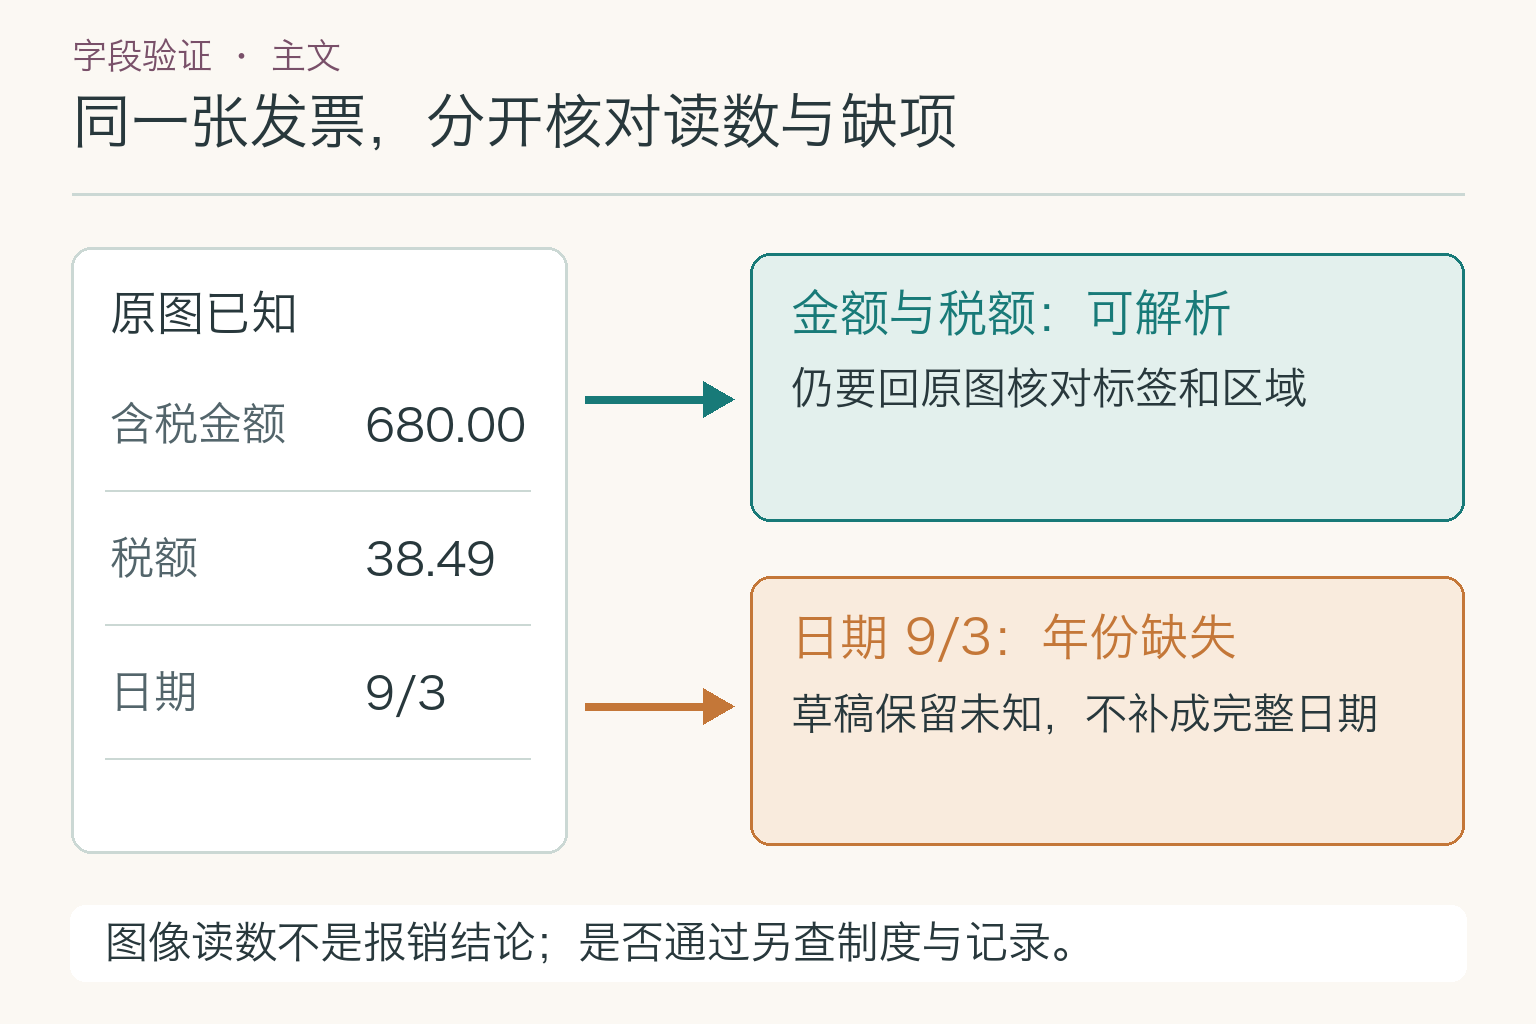
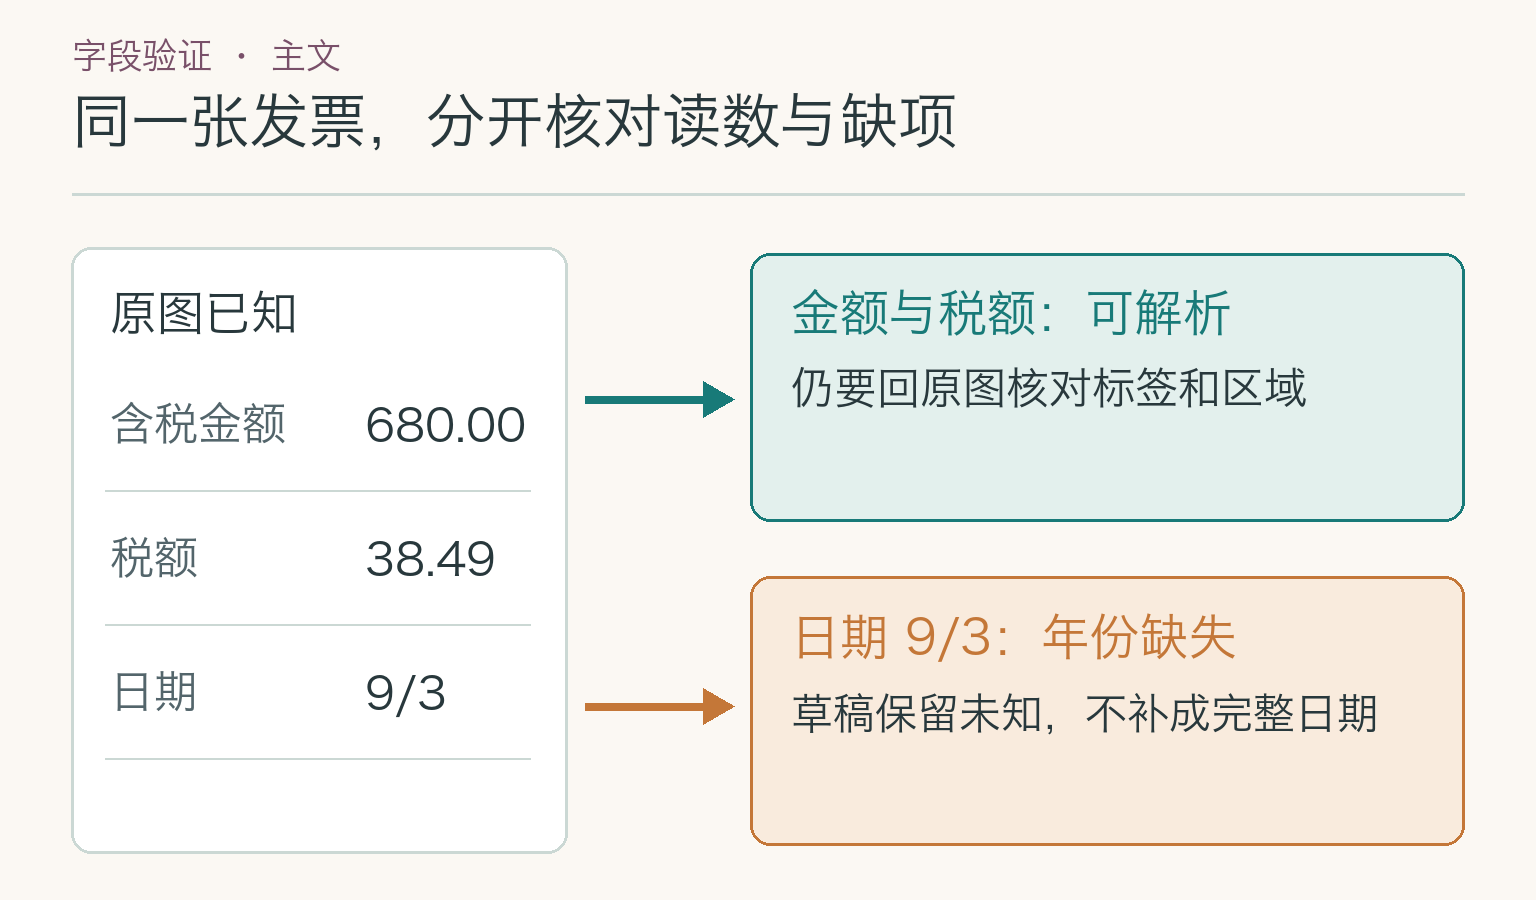
Remove detached disclaimers from multimodal figures

diff --git a/scripts/render-multimodal-mobile-figures.py b/scripts/render-multimodal-mobile-figures.py
@@ -46,18 +46,11 @@ def arrow(d, y1, y2, label=None, x=500, fill=ORANGE):
         text(d, x+33, (y1+y2)//2, label, 35, MUTED, "lm")
 
 
-def ribbon(d, y, lines, fill=ORANGE_BG):
-    h = 76 + 56*(len(lines)-1)
-    d.rounded_rectangle((70, y, 930, y+h), radius=20, fill=fill)
-    for i, line in enumerate(lines):
-        text(d, 102, y+19+i*55, line, 39, INK)
-
-
-def save(im, name):
+def save(im, name, height):
     # The outer margin is intentionally bare: no decorative left stripe.
     if im.crop((0, 0, 40, H)).getpixel((0, H//2)) != Image.new("RGB", (1, 1), BG).getpixel((0, 0)):
         raise ValueError(f"Unexpected mark at left edge: {name}")
-    im.save(ASSETS / name, optimize=True)
+    im.crop((0, 0, W, height)).save(ASSETS / name, optimize=True)
 
 
 def h_arrow(d, x1, y, x2, fill=ORANGE):
@@ -107,8 +100,7 @@ def field_trace():
         text(d, 688, y+135, status, 38, ORANGE if region == "C" else TEAL)
         h_arrow(d, 332, y+109, 370)
         h_arrow(d, 607, y+109, 650)
-    ribbon(d, 1281, ("A / B / C 仅为示意区域；", "每个草稿字段都要能回溯。"), TEAL_BG)
-    save(im, "multimodal-field-trace.png")
+    save(im, "multimodal-field-trace.png", 1245)
 
 
 def alignment():
@@ -136,8 +128,7 @@ def alignment():
     d.line((740, 1007, 740, 1080), fill=TEAL, width=6)
     box(d, (185, 1090, 815, 1220), PLUM_BG, PLUM)
     text(d, 256, 1132, "连接层只能映射已有特征", 41, PLUM)
-    ribbon(d, 1281, ("丢失的小字不能在连接层补回。",), "white")
-    save(im, "multimodal-alignment.png")
+    save(im, "multimodal-alignment.png", 1285)
 
 
 def ocr_vlm():
@@ -158,8 +149,7 @@ def ocr_vlm():
     text(d, 557, 828, "含税金额 ← 680.00", 34)
     text(d, 557, 905, "税额 ← 38.49", 34)
     text(d, 557, 982, "日期 ← 9/3", 34)
-    ribbon(d, 1178, ("最终按原图标签、位置复核；", "两路一致也不能补出年份。"), ORANGE_BG)
-    save(im, "multimodal-ocr-vlm.png")
+    save(im, "multimodal-ocr-vlm.png", 1165)
 
 
 def diagnosis():
@@ -179,7 +169,7 @@ def diagnosis():
         h_arrow(d, 544, y+140, 606, accent)
         for i, action in enumerate(actions):
             text(d, 652, y+98+i*51, action, 36)
-    save(im, "multimodal-document-diagnosis.png")
+    save(im, "multimodal-document-diagnosis.png", 1340)
 
 
 def evaluation():
@@ -200,8 +190,7 @@ def evaluation():
         text(d, 204, y+105, sample, 35)
         h_arrow(d, 583, y+109, 672, accent)
         text(d, 704, y+79, metric, 37, accent)
-    ribbon(d, 1280, ("还要分别核对原图区域与标签；", "不拿字符正确率代替字段正确率。"), "white")
-    save(im, "multimodal-evaluation.png")
+    save(im, "multimodal-evaluation.png", 1285)
 
 
 if __name__ == "__main__":

diff --git a/scripts/render-multimodal-main-landscape.py b/scripts/render-multimodal-main-landscape.py
@@ -14,7 +14,7 @@ FONT = next(str(p) for p in (
     Path("/System/Library/Fonts/STHeiti Medium.ttc"),
     Path("/usr/share/fonts/opentype/noto/NotoSansCJK-Regular.ttc"),
 ) if p.exists())
-W, H = 1536, 1024
+W, H = 1536, 900
 BG, INK, MUTED = "#FBF8F3", "#28383C", "#53656B"
 TEAL, TEAL_BG = "#187A78", "#E3F0ED"
 PLUM, PLUM_BG = "#795069", "#F2E9EF"
@@ -48,11 +48,6 @@ def base(kicker, title):
     return image, draw
 
 
-def footer(draw, message):
-    box(draw, (70, 905, 1466, 981), "white", "white", 15)
-    text(draw, 105, 920, message, 43)
-
-
 def save(image, name):
     image.save(ASSETS / name, optimize=True)
 
@@ -83,7 +78,6 @@ def encoding():
         text(draw, 1168, y+43, feature, 47)
         arrow(draw, 401, y+77, 545, accent)
         arrow(draw, 981, y+77, 1118, accent)
-    footer(draw, "本例只走图片与文字两路；是否支持音频取决于具体模型。")
     save(image, "multimodal-encoding.png")
 
 
@@ -108,7 +102,6 @@ def principle():
     box(draw, (547, 657, 1118, 794), "white", LINE)
     text(draw, 582, 691, "提问：含税金额？", 46)
     arrow(draw, 1130, 725, 1195, ORANGE)
-    footer(draw, "原理图依据 LLaVA 第 4.1 节；字段正确与否仍须核对原图。")
     save(image, "multimodal-principle.png")
 
 
@@ -137,7 +130,6 @@ def document():
         text(draw, 943, y+17, heading, 39, accent)
         text(draw, 943, y+76, finding, 40)
         arrow(draw, 807, source_y, 895, accent)
-    footer(draw, "数值要连同旁边标签核对；9/3 没有年份，不能补猜。")
     save(image, "multimodal-document.png")
 
 
@@ -164,7 +156,6 @@ def field_trace():
         else:
             text(draw, 1195 if mark == "B" else 1278, y, value, 40, accent)
         arrow(draw, 587, y+27, 1011, accent)
-    footer(draw, "A / B / C 是教学标记，不是实测坐标；缺失的年份不能出现。")
     save(image, "multimodal-field-trace-main.png")
 
 
@@ -188,7 +179,6 @@ def validation():
     text(draw, 791, 692, "草稿保留未知，不补成完整日期", 42)
     arrow(draw, 585, 399, 734, TEAL)
     arrow(draw, 585, 706, 734, ORANGE)
-    footer(draw, "图像读数不是报销结论；是否通过另查制度与记录。")
     save(image, "multimodal-validation.png")
 
 

diff --git a/content/wechat/01-foundation-models-and-inference/submodules/02-multimodal/prompts.md b/content/wechat/01-foundation-models-and-inference/submodules/02-multimodal/prompts.md
@@ -1,8 +1,8 @@
 # 多模态模型子模块配图提示词
 
-版本：0.7.0；修订时间：2026-10-08 17:53 CST；依据提交：`8c7588f`（`main`；修改前工作区干净）。阶段：主文五张正文图改为横版，面试副文保留独立的纵版读图节奏。
+版本：0.7.1；修订时间：2026-10-08 18:18 CST；依据提交：`8aff1b6`（`main`；修改前工作区干净）。阶段：移除正文图底部独立说明条，让来源与限定由图注和正文承担。
 
-主文五张正文图统一为 1536×1024 横版 PNG，由 `scripts/render-multimodal-main-landscape.py` 绘制；面试副文五张正文图为 1000×1450 纵版 PNG，由 `scripts/render-multimodal-mobile-figures.py` 绘制。两篇不再共用字段溯源图，以免其中一篇被另一篇的画幅锁定。均须在约 345px 的手机正文宽度下核对字段和关系。公众号封面为 900×383 PNG；底图由内置图像生成工具生成，准确中文由 `scripts/compose-multimodal-covers.mjs` 确定性叠加。暖白背景，青绿、梅红、橙色点缀，中文清晰，无水印、无 Logo；不使用左侧通高装饰竖条、渐变、立体阴影或没有信息意义的图标。
+主文五张正文图统一为 1536×900 横版 PNG，由 `scripts/render-multimodal-main-landscape.py` 绘制；面试副文五张正文图由 `scripts/render-multimodal-mobile-figures.py` 绘制，按内容裁到合适的纵向高度。两篇不再共用字段溯源图，以免其中一篇被另一篇的画幅锁定。均须在约 345px 的手机正文宽度下核对字段和关系。公众号封面为 900×383 PNG；底图由内置图像生成工具生成，准确中文由 `scripts/compose-multimodal-covers.mjs` 确定性叠加。暖白背景，青绿、梅红、橙色点缀，中文清晰，无水印、无 Logo；不使用左侧通高装饰竖条、渐变、立体阴影或没有信息意义的图标。
 
 1. `multimodal-cover-main-wechat.png`：主文封面。无字水彩底图 `multimodal-cover-main-art.png` 只表现一张发票与金额栏局部放大，两条线连接原图区域和放大区域；题字“多模态模型”“发票读数为何填错栏”排在左上。底部 15%（约 58 px）只放可被微信标题遮挡的纸纹，不放关键对象或文字。封面不复用正文，不假装能直接读出案例的具体数字。
 2. `multimodal-cover-interview-wechat.png`：面试副文封面。无字水彩底图 `multimodal-cover-interview-art.png` 的中央是单张发票、两条金额栏与放大镜；确定性叠加“认字”“归栏”两个短标签。完整题目只保留在草稿卡片标题，不在缩略图重复。核心物件与标签均处于中央正方形安全区，按 900×383 原图和约 128×128 居中裁切复核。
@@ -16,4 +16,4 @@
 10. `multimodal-document-diagnosis.png`（确定性绘制）：面试诊断图。对照缩图过度、拆开行列、日期缺项三类不同原因与处理动作，避免把全部错误归结为模型不够大。
 11. `multimodal-evaluation.png`（确定性绘制）：面试评测图。字符读错、字段填反、无据补年份分别对应字符准确、字段归属与区域定位、缺项保留等不同评测维度；不得绘制没有数据来源的成绩或改善曲线。
 
-复核：先确认主文五图均为宽高比 3:2，面试副文五图为独立纵图；再逐张检查中文字、案例数值、箭头方向、区域标记、缺项状态和边缘留白。以 330—345px 宽度检查标题、字段数值与主要结论的辨认度；横图看不清时应减字或拆图，不能改成拉长的竖版文字卡。副文封面另查中心方形裁切。两篇正文图均有紧随其后的图注，正文不重复插入封面图。
+复核：先确认主文五图均为横版（1536×900），面试副文五图为独立纵图；再逐张检查中文字、案例数值、箭头方向、区域标记、缺项状态和边缘留白。以 330—345px 宽度检查标题、字段数值与主要结论的辨认度。图底不再为来源声明、边界提醒、“不是实测”“仍须复核”等文字预留独立色条或白条；必要说明写在紧邻图注或正文。副文封面另查中心方形裁切；正文不重复插入封面图。

diff --git a/docs/project-specification.md b/docs/project-specification.md
@@ -4,11 +4,11 @@
 
 | 项目 | 值 |
 | --- | --- |
-| 规范版本 | `1.33.0` |
+| 规范版本 | `1.34.0` |
 | 适用项目版本 | `0.5.0` |
-| 阶段 | 增加主文正文横版图的画幅约束和可执行校验 |
-| 文档基线 | 基于 `8c7588f`（`main`；修改前工作区干净） |
-| 修改时间 | `2026-10-08 18:04 CST` |
+| 阶段 | 禁止正文图底部独立免责声明条，改由图注与正文承载必要说明 |
+| 文档基线 | 基于 `8aff1b6`（`main`；修改前工作区干净） |
+| 修改时间 | `2026-10-08 18:18 CST` |
 
 ## 1. 目标与边界
 
@@ -272,6 +272,7 @@ ai-agent-knowledge-map/
 - 生成式图片优先负责无文字底图，准确中文由 SVG、Canvas 或排版脚本确定性叠加。封面至少检查一次 900×383 原图、一次约 128×128 的居中裁切缩略图，并在真实公众号双图文预览中检查主文标题遮罩和副文中心裁切；只有三处都能辨认主题且无关键信息被挡住，才算通过；
 - 正文不要求设置“首图”，也不因排版习惯重复插入封面。只有封面本身同时承担机制、案例或关键关系的解释任务时，才可在正文相应位置复用；
 - 正文配图必须承担明确的信息任务，例如解释机制、比较差异、核对证据或展示实验结果。只重复标题、副标题或泛化口号的图片不作为正文配图；案例文章优先画案例中的具体字段、证据与判断，不用可套在任意 Agent 文章上的通用护栏流程代替；
+- 正文图内只保留读懂图形所需的对象、标签、数值、箭头和少量直接参与判断的文字；不得在图底另设白条或色条，硬塞“不是实测”“仍须复核”“不能补猜”、论文出处等脱离画面的免责声明或总结句。确有必要的来源、示意性质与适用边界写在紧邻图片的图注或正文，不因移出图片而省略事实核对；
 - 新生成或重做的公众号**主文正文图统一使用横版**，推荐 3:2（如 1536×1024），宽高比不得低于 1.35；封面另按本节封面规则处理，面试副文的正文图可按题目结构选择画幅。横版不是把竖图拉伸或裁掉内容：出图时要按横向信息流重新构图，并以 330—345 px 手机正文宽度核对关键文字、数值和箭头。对应 `series.json` 组声明 `beginnerImageAspectMin: 1.35`，交给文章校验器检查所有主文正文图片；旧组逐步重绘时补齐声明，不因历史资产尚未迁移而误报全库；
 - **每一篇 `beginner-main.md` 至少包含一张原理示意图**，包括一级模块总览主文。原理图必须展示真实机制的关键部件及其依赖、信息流或计算过程；仅有职责分工、业务流程、发布闭环或抽象图标的图片不能充数。总览主文可展示一个横跨子模块的代表性机制，避免重复下钻正文；面试副文可复用已核实的原理图，不强制另画一张；
 - 配图先分类：框架图、业务流程图和系统协作图可延续现有的分层、节点、箭头设计；**原理图**先阅读该机制的经典或原始论文及必要的后续资料，找到有代表性的架构图、计算图或对比图，再决定画面结构。不要把任何原理都套进四格流程，也不要只凭生成模型的联想画电路、脑袋或抽象网络；

diff --git a/docs/wechat-illustration-reference.md b/docs/wechat-illustration-reference.md
@@ -4,11 +4,11 @@
 
 | 项目 | 值 |
 | --- | --- |
-| 规范版本 | `1.7.0` |
+| 规范版本 | `1.8.0` |
 | 适用项目版本 | `0.5.0` |
-| 阶段 | 明确主文横版画幅与手机端读图验收，副文仍按题目选择画幅 |
-| 文档基线 | `8c7588f`（`main`；修改前工作区干净） |
-| 修改时间 | `2026-10-08 18:04 CST` |
+| 阶段 | 去除图底独立说明条，将来源与限定放回图注或正文 |
+| 文档基线 | `8aff1b6`（`main`；修改前工作区干净） |
+| 修改时间 | `2026-10-08 18:18 CST` |
 
 ## 1. 适用范围
 
@@ -82,7 +82,7 @@
 - 正文图采用无装饰边框的中文教学图：暖白背景、深灰正文，青绿、梅红、蓝与铁锈橙只承担信息语义。色块默认使用低饱和浅色，高饱和颜色只用于细边、箭头、短标签或关键警告；不得让多块高饱和区域同时争夺注意力。颜色在同一张图内不得表示互相冲突的状态。
 - 禁止在整张图片左侧放置贯穿上下的彩色装饰竖条；单个节点的短色边只有在表示输入类型、处理阶段或判断状态时才可使用。
 - 不使用 PPT 母版感的页眉、角标和通用边框，不使用渐变、霓虹、玻璃质感、立体阴影、装饰盾牌、机器人头像、脑袋或电路背景。
-- 图形是主体。顶部只保留简短分类和问题式标题，中部核心图解应占主要面积，底部可放一句边界说明或来源；主标题原则上不超过画布高度的 8%—10%，同一篇文章内标题字号保持一致，不采用“大标题占半张图、下面只有几个泛化方框”的构图。
+- 图形是主体。顶部只保留简短分类和问题式标题，中部核心图解应占主要面积；不得在图底另画独立白条、色条放免责声明、出处或与图形分离的总结句。论文出处、示意性质、适用边界移到紧邻图注或正文；真正改变读图方向的短标签应标在对应节点、箭头或证据附近。主标题原则上不超过画布高度的 8%—10%，同一篇文章内标题字号保持一致，不采用“大标题占半张图、下面只有几个泛化方框”的构图。
 - 文字少、字号大、标签短；移动端缩小后仍应看清关键字段、箭头和结论。图片若必须依靠一段小字才能成立，应把该说明移回正文或图注。
 
 ### 7.3 提示词结构

diff --git a/docs/wechat-draft-push-checklist.md b/docs/wechat-draft-push-checklist.md
@@ -4,11 +4,11 @@
 
 | 项目 | 值 |
 | --- | --- |
-| 规范版本 | `1.4.0` |
+| 规范版本 | `1.5.0` |
 | 适用项目版本 | `0.5.0` |
-| 阶段 | 加入主文横版图逐张检查和声明画幅的自动校验 |
-| 文档基线 | `8c7588f`（`main`；修改前工作区干净） |
-| 修改时间 | `2026-10-08 18:04 CST` |
+| 阶段 | 加入图底说明条检查，来源与限定转入图注或正文 |
+| 文档基线 | `8aff1b6`（`main`；修改前工作区干净） |
+| 修改时间 | `2026-10-08 18:18 CST` |
 
 ## 1. 适用范围与判定原则
 
@@ -96,6 +96,7 @@
 
 - [ ] 正文图使用暖白底、深灰文字和低饱和浅色块；高饱和色只用于少量箭头、短标签或警告。
 - [ ] 图片标题不过大，原则上不超过画布高度的 8%—10%；没有贯穿左侧的装饰竖线、大面积实色标题条、渐变、霓虹和立体阴影。
+- [ ] 图片底部没有独立白条或色条承载“依据某论文”“不是实测”“仍须复核”等免责声明或游离的总结句；必要出处、示意性质和边界已在紧邻图注或正文交代。
 - [ ] 连续查看同一篇全部图片时，标题尺度、边距、线条、色彩强度和信息密度协调，没有某一张突然过亮、过空或过吵。
 - [ ] 以约 330—345px 的手机正文宽度逐张检查；主文横图不是把竖图拉伸或裁切，也没有因缩小而失去关键文字、数值与箭头。副文竖图不能只把同样的三层卡片放大。主副封面虽独立构图，材质、字体气质与主辅色仍属于同一视觉家族。
 - [ ] 主、副文分别使用与正文强相关的封面；正文不保留只承担标题展示或氛围装饰的首图。

diff --git a/content/wechat/01-foundation-models-and-inference/submodules/02-multimodal/beginner-main.md b/content/wechat/01-foundation-models-and-inference/submodules/02-multimodal/beginner-main.md
@@ -12,10 +12,10 @@ topic: "foundation"
 content_level: "submodule"
 submodule: "multimodal"
 series_order: 2
-version: "0.4.2"
-stage: "把五张主文教学图改为 3:2 横版，并与副文配图分开维护"
-git_state: "基于 8c7588f（main；修改前工作区干净）"
-modified_at: "2026-10-08 17:53 CST"
+version: "0.4.3"
+stage: "去除正文图底部说明条，将必要限定留在图注与正文"
+git_state: "基于 8aff1b6（main；修改前工作区干净）"
+modified_at: "2026-10-08 18:18 CST"
 ---
 
 # 大话多模态模型：一张发票为什么会读错
@@ -28,7 +28,7 @@ modified_at: "2026-10-08 17:53 CST"
 
 ![多模态输入编码流程](./assets/multimodal-encoding.png)
 
-*图中展示图片与文字各自进入模型的路径；发票任务不使用音频路径。*
+*图中对照三类输入各自的编码路径；本例只使用图片和文字，并非所有模型都支持音频输入。*
 
 很多视觉编码器不能把手机拍的整张高清照片按原尺寸直接读进去。输入会先缩放或分成局部图，再变成一组视觉特征。有些编码器把图像切成小块处理；这些特征保留可供模型利用的线索，却不是一份能够随时放大的原图。若整页缩得太小，“含税金额”里的字、小数点和日期笔画会先糊成一团。此时继续调整提问语气，找不回已经丢失的像素。
 

diff --git a/content/wechat/01-foundation-models-and-inference/submodules/02-multimodal/interview-side.md b/content/wechat/01-foundation-models-and-inference/submodules/02-multimodal/interview-side.md
@@ -12,10 +12,10 @@ topic: "foundation"
 content_level: "submodule"
 submodule: "multimodal"
 series_order: 2
-version: "0.3.2"
-stage: "字段溯源图改为副文专用，主文另绘横版"
-git_state: "基于 8c7588f（main；修改前工作区干净）"
-modified_at: "2026-10-08 18:04 CST"
+version: "0.3.3"
+stage: "移除面试配图底部重复说明条，保留图注中的必要限定"
+git_state: "基于 8aff1b6（main；修改前工作区干净）"
+modified_at: "2026-10-08 18:18 CST"
 ---
 
 # 面试题：发票读对字为何还会填错字段
